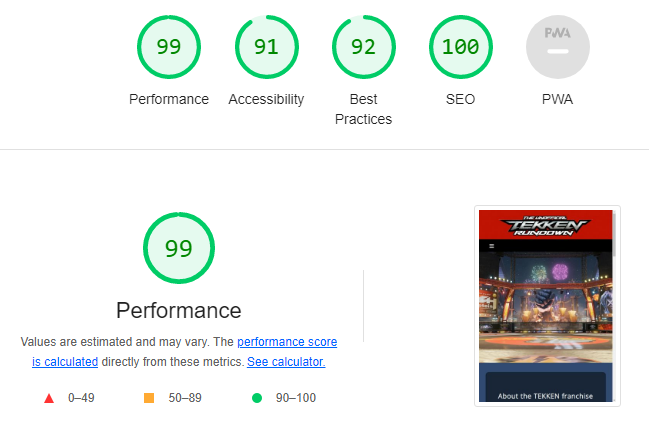
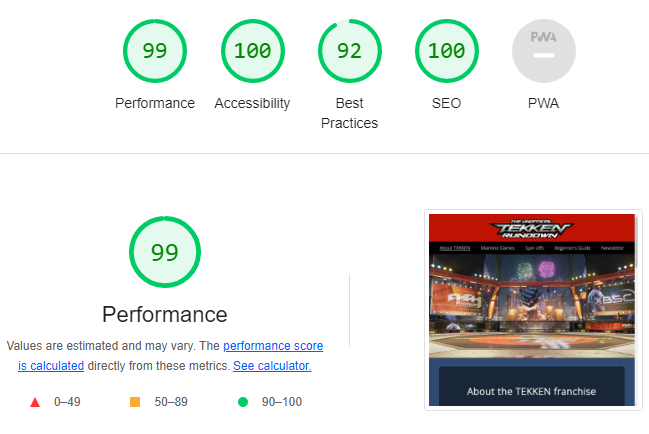
Add aria-label to mobile menu button on all pages

diff --git a/beginners-guide.html b/beginners-guide.html
@@ -21,7 +21,7 @@
         <nav>
             <div id="menu-toggle"> 
                 <input name="toggle" type="checkbox" id="toggle">
-                <label for="toggle"><i class="fa-solid fa-bars"></i></label>
+                <label for="toggle" aria-label="Button For Opening the Navigation Menu"><i class="fa-solid fa-bars"></i></label>
             
                 <ul id="menu">
                     <li>

diff --git a/games.html b/games.html
@@ -21,7 +21,7 @@
         <nav>
             <div id="menu-toggle"> 
                 <input name="toggle" type="checkbox" id="toggle">
-                <label for="toggle"><i class="fa-solid fa-bars"></i></label>
+                <label for="toggle" aria-label="Button For Opening the Navigation Menu"><i class="fa-solid fa-bars"></i></label>
             
                 <ul id="menu">
                     <li>

diff --git a/index.html b/index.html
@@ -21,7 +21,7 @@
         <nav>
             <div id="menu-toggle"> 
                 <input name="toggle" type="checkbox" id="toggle">
-                <label for="toggle"><i class="fa-solid fa-bars"></i></label>
+                <label for="toggle" aria-label="Button For Opening the Navigation Menu"><i class="fa-solid fa-bars"></i></label>
             
                 <ul id="menu">
                     <li>

diff --git a/sign-up.html b/sign-up.html
@@ -21,7 +21,7 @@
         <nav>
             <div id="menu-toggle"> 
                 <input name="toggle" type="checkbox" id="toggle">
-                <label for="toggle"><i class="fa-solid fa-bars"></i></label>
+                <label for="toggle" aria-label="Button For Opening the Navigation Menu"><i class="fa-solid fa-bars"></i></label>
             
                 <ul id="menu">
                     <li>

diff --git a/spinoffs.html b/spinoffs.html
@@ -21,7 +21,7 @@
         <nav>
             <div id="menu-toggle"> 
                 <input name="toggle" type="checkbox" id="toggle">
-                <label for="toggle"><i class="fa-solid fa-bars"></i></label>
+                <label for="toggle" aria-label="Button For Opening the Navigation Menu"><i class="fa-solid fa-bars"></i></label>
             
                 <ul id="menu">
                     <li>

diff --git a/README.md b/README.md
@@ -115,7 +115,7 @@ This website was designed for:
 ## Development and Deployment
 
 While GitPod was originally used, Visual Studio Code was instead chosen as the primary development environment for this project. <br>
-The reason behind this being that Code Institute are moving away from GitPod and the time required to get accustomed to a new environment while simultaneously working on the project was insufficient. <br>
+The reason behind this being that Code Institute is moving away from GitPod and the time required to get accustomed to a new environment while simultaneously working on this project was insufficient. <br>
 To maintain proper management of the development and version control, frequent commits and pushes to GitHub were carried out.
 
 ### GitHub Pages
